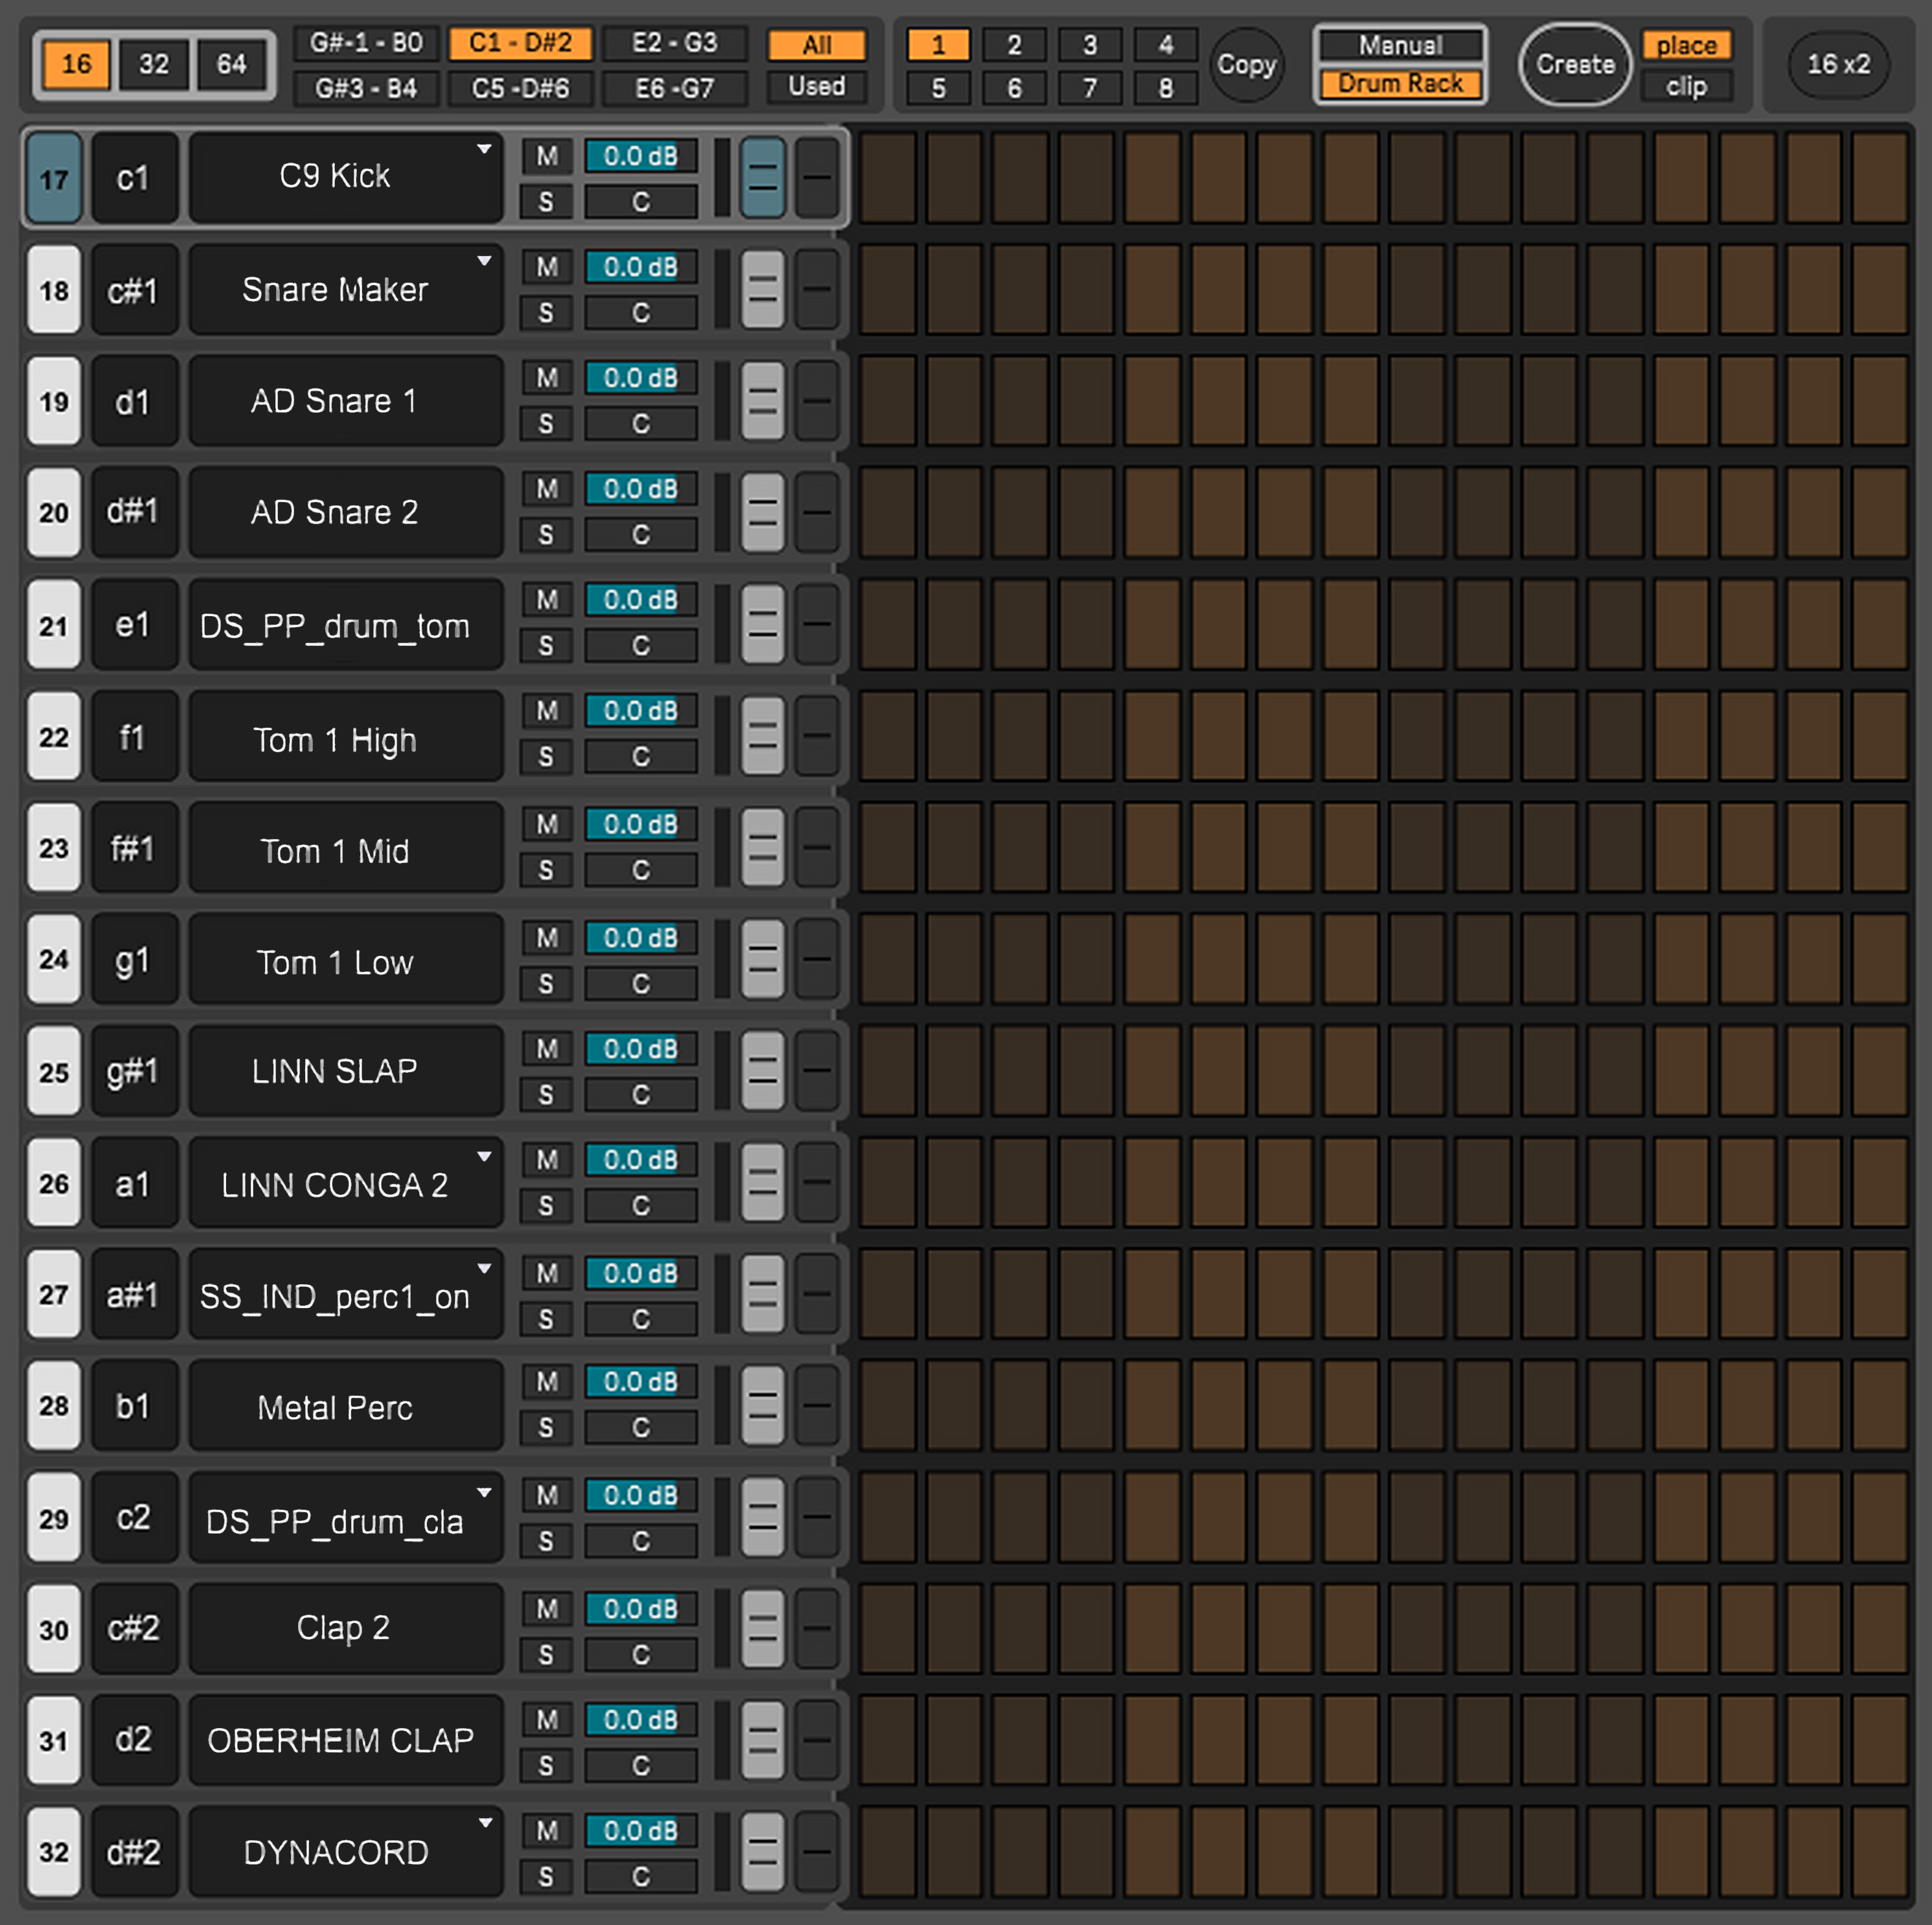
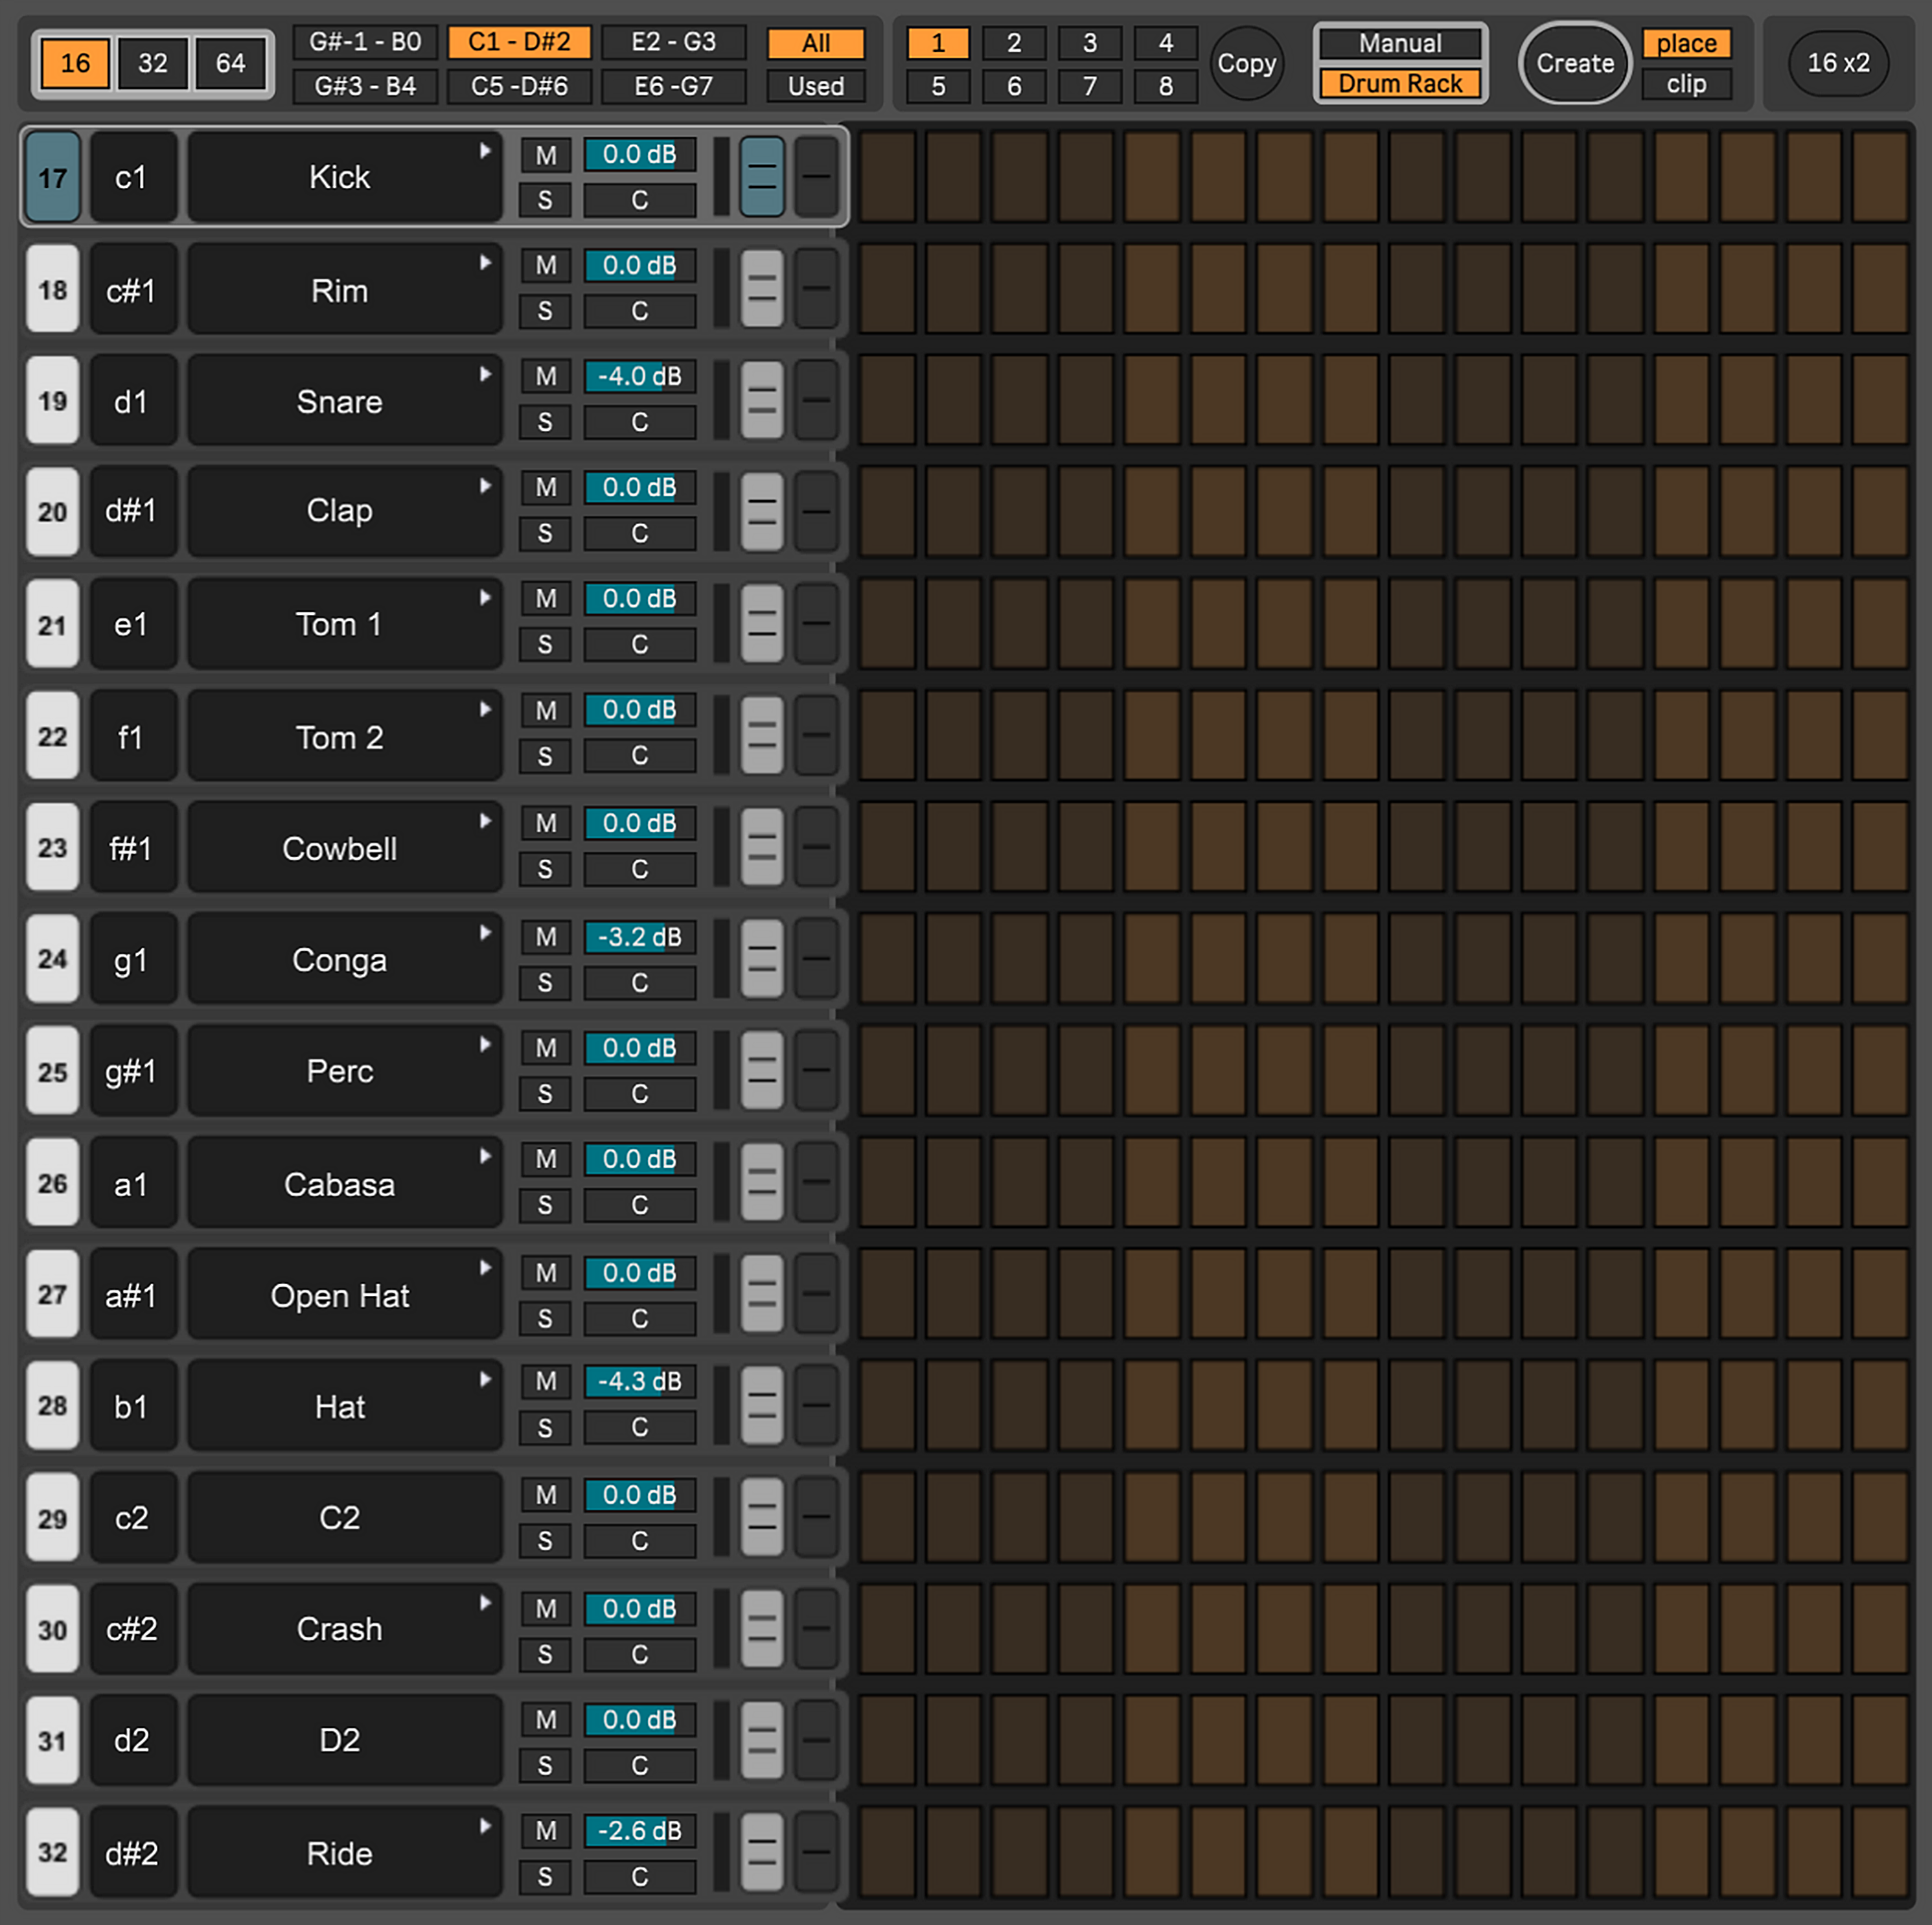
Update video showcase and fix skip button

diff --git a/fseq.html b/fseq.html
@@ -324,7 +324,7 @@
 
                 <a href="about.html" class="text-gray-400 hover:text-white transition duration-150">About me</a>
 
-                <a href="#" class="inline-flex items-center bg-zinc-800 text-white px-6 py-2 rounded-full font-bold uppercase tracking-wider text-sm hover:bg-zinc-700 transition shadow-lg whitespace-nowrap">
+                <a href="https://sharooms.gumroad.com/l/FSEQ" target="_blank" class="inline-flex items-center bg-zinc-800 text-white px-6 py-2 rounded-full font-bold uppercase tracking-wider text-sm hover:bg-zinc-700 transition shadow-lg whitespace-nowrap">
                     <img src="assets/gumroad.svg" alt="Gumroad" class="w-5 h-5 mr-2">
                     MY GUMROAD SHOP
                 </a>
@@ -340,7 +340,7 @@
             <a href="fseq.html" class="block pl-10 pr-6 py-2 text-sm text-gray-400 hover:bg-gray-800 transition">FSEQ</a>
             <a href="lazy-serum.html" class="block pl-10 pr-6 py-2 text-sm text-gray-400 hover:bg-gray-800 transition">Lazy Serum</a>
             <a href="about.html" class="block px-6 py-3 text-gray-300 hover:bg-gray-800 transition border-t border-gray-800">About me</a>
-            <a href="#" class="block px-6 py-4 bg-zinc-800 text-white font-bold uppercase tracking-wider text-sm hover:bg-zinc-700 transition border-t border-zinc-800 flex items-center">
+            <a href="https://sharooms.gumroad.com/l/FSEQ" target="_blank" class="block px-6 py-4 bg-zinc-800 text-white font-bold uppercase tracking-wider text-sm hover:bg-zinc-700 transition border-t border-zinc-800 flex items-center">
                 <img src="assets/gumroad.svg" alt="Gumroad" class="w-5 h-5 mr-3">
                 MY GUMROAD SHOP
             </a>
@@ -357,11 +357,17 @@
                     <p class="text-lg md:text-xl lg:text-2xl text-gray-400 mb-4 md:mb-6 font-light max-w-2xl">
                         Next-Level Drum Sequencing. A powerful, fully integrated step sequencer for Ableton Live, optimized for Drum Racks.
                     </p>
-                    <div class="flex items-center gap-4 md:gap-6">
-                        <span class="text-2xl md:text-4xl font-extrabold text-white tracking-widest">$6.00</span>
-                        <a href="#" class="inline-flex items-center bg-white text-black px-6 py-2 md:px-10 md:py-4 rounded-md font-bold uppercase tracking-wider hover:bg-gray-200 transition shadow-2xl text-sm md:text-base">
-                            <img src="assets/gumroad.svg" alt="Gumroad" class="w-5 h-5 md:w-6 md:h-6 mr-2 md:mr-3">
-                            GET ON GUMROAD
+                    <div class="flex flex-col gap-3 2xl:flex-row 2xl:items-center 2xl:gap-6">
+                        <div class="flex items-center gap-4 md:gap-6">
+                            <span class="text-2xl md:text-4xl font-extrabold text-white tracking-widest">$6.00</span>
+                            <a href="https://sharooms.gumroad.com/l/FSEQ" target="_blank" class="inline-flex items-center bg-white text-black px-6 py-2 md:px-10 md:py-4 rounded-md font-bold uppercase tracking-wider hover:bg-gray-200 transition shadow-2xl text-sm md:text-base whitespace-nowrap">
+                                <img src="assets/gumroad.svg" alt="Gumroad" class="w-5 h-5 md:w-6 md:h-6 mr-2 md:mr-3">
+                                GET ON GUMROAD
+                            </a>
+                        </div>
+                        <a href="assets/FseqManual.pdf" target="_blank" class="hidden 2xl:inline-flex items-center justify-center bg-zinc-800 text-white px-6 py-2 md:px-10 md:py-4 rounded-md font-bold uppercase tracking-wider border border-zinc-700 hover:bg-zinc-700 transition text-sm md:text-base whitespace-nowrap">
+                            <span data-lucide="file-text" class="w-5 h-5 md:w-6 md:h-6 mr-2 md:mr-3 text-gray-400"></span>
+                            VIEW MANUAL
                         </a>
                     </div>
                     <p class="text-gray-500 mt-2 md:mt-4 text-xs md:text-sm">* A purchase also covers all future updates!</p>
@@ -421,6 +427,13 @@
                         <p class="text-[10px] md:text-base text-gray-500 leading-relaxed">Paint notes and velocity curves or use context menus for fast fills.</p>
                     </div>
                 </div>
+                <!-- Mobile only Manual Button -->
+                <div class="mt-12 2xl:hidden flex justify-center">
+                    <a href="assets/FseqManual.pdf" target="_blank" class="w-full md:w-auto inline-flex items-center justify-center bg-zinc-800 text-white px-8 py-4 md:px-12 md:py-5 rounded-md font-bold uppercase tracking-wider border border-zinc-700 hover:bg-zinc-700 transition text-sm md:text-base shadow-xl">
+                        <span data-lucide="file-text" class="w-6 h-6 mr-3 text-gray-400"></span>
+                        VIEW MANUAL
+                    </a>
+                </div>
             </div>
         </section>
         </div>
@@ -460,8 +473,8 @@
                     <div class="scrolly-content" id="scrolly-content">
                         <div id="scrolly-desc-container"></div>
                         <!-- Skip to Showcase -->
-                        <button onclick="document.getElementById('video-showcase').scrollIntoView({ behavior: 'smooth' })" 
-                                class="mt-20 px-10 py-4 border border-white/20 hover:border-white hover:bg-white hover:text-black transition-all duration-500 uppercase text-sm md:text-lg font-black tracking-[0.5em] pointer-events-auto backdrop-blur-sm">
+                        <button onclick="doSkipOverview(this, event)"
+                                class="mt-20 px-10 py-4 border border-white/20 md:hover:border-white md:hover:bg-white md:hover:text-black transition-all duration-500 uppercase text-sm md:text-lg font-black tracking-[0.5em] pointer-events-auto backdrop-blur-sm">
                             SKIP OVERVIEW
                         </button>
                     </div>
@@ -476,7 +489,7 @@
             <div class="container mx-auto px-4 md:px-12 py-12 md:py-24">
                 <div class="grid grid-cols-1 md:grid-cols-2 gap-0 md:gap-x-24 md:gap-y-32">
                     <!-- Video 1: Drum Sequencer -->
-                    <div class="video-page-item h-[100svh] md:h-auto flex flex-col justify-center">
+                    <div class="video-page-item h-[100svh] md:h-auto flex flex-col justify-center md:justify-start">
                         <div class="relative aspect-[4/3] rounded-xl overflow-hidden bg-zinc-900 shadow-2xl mb-8 group border border-white/10">
                             <video src="assets/build.mp4" class="w-full h-full object-cover" autoplay muted loop playsinline></video>
                             <div class="absolute inset-0 bg-gradient-to-t from-black/60 to-transparent opacity-0 group-hover:opacity-100 transition-opacity duration-500"></div>
@@ -494,7 +507,7 @@
                     </div>
 
                     <!-- Video 2: Select -->
-                    <div class="video-page-item h-[100svh] md:h-auto flex flex-col justify-center">
+                    <div class="video-page-item h-[100svh] md:h-auto flex flex-col justify-center md:justify-start">
                         <div class="relative aspect-[4/3] rounded-xl overflow-hidden bg-zinc-900 shadow-2xl mb-8 group border border-white/10">
                             <video src="assets/select_tool.mp4" class="w-full h-full object-cover" autoplay muted loop playsinline></video>
                             <div class="absolute inset-0 bg-gradient-to-t from-black/60 to-transparent opacity-0 group-hover:opacity-100 transition-opacity duration-500"></div>
@@ -512,7 +525,7 @@
                     </div>
 
                     <!-- Video 3: Velocity -->
-                    <div class="video-page-item h-[100svh] md:h-auto flex flex-col justify-center">
+                    <div class="video-page-item h-[100svh] md:h-auto flex flex-col justify-center md:justify-start">
                         <div class="relative aspect-[4/3] rounded-xl overflow-hidden bg-zinc-900 shadow-2xl mb-8 group border border-white/10">
                             <video src="assets/velocity.mp4" class="w-full h-full object-cover" autoplay muted loop playsinline></video>
                             <div class="absolute inset-0 bg-gradient-to-t from-black/60 to-transparent opacity-0 group-hover:opacity-100 transition-opacity duration-500"></div>
@@ -530,7 +543,7 @@
                     </div>
 
                     <!-- Video 4: Hotkeys -->
-                    <div class="video-page-item h-[100svh] md:h-auto flex flex-col justify-center">
+                    <div class="video-page-item h-[100svh] md:h-auto flex flex-col justify-center md:justify-start">
                         <div class="relative aspect-[4/3] rounded-xl overflow-hidden bg-zinc-900 shadow-2xl mb-8 group border border-white/10">
                             <video src="assets/hotkeys.mp4" class="w-full h-full object-cover" autoplay muted loop playsinline></video>
                             <div class="absolute inset-0 bg-gradient-to-t from-black/60 to-transparent opacity-0 group-hover:opacity-100 transition-opacity duration-500"></div>
@@ -548,7 +561,7 @@
                     </div>
 
                     <!-- Video 5: API Integration -->
-                    <div class="video-page-item h-[100svh] md:h-auto flex flex-col justify-center">
+                    <div class="video-page-item h-[100svh] md:h-auto flex flex-col justify-center md:justify-start">
                         <div class="relative aspect-[4/3] rounded-xl overflow-hidden bg-zinc-900 shadow-2xl mb-8 group border border-white/10">
                             <video src="assets/api.mp4" class="w-full h-full object-cover" autoplay muted loop playsinline></video>
                             <div class="absolute inset-0 bg-gradient-to-t from-black/60 to-transparent opacity-0 group-hover:opacity-100 transition-opacity duration-500"></div>
@@ -566,7 +579,7 @@
                     </div>
 
                     <!-- Video 6: Sample Swap -->
-                    <div class="video-page-item h-[100svh] md:h-auto flex flex-col justify-center">
+                    <div class="video-page-item h-[100svh] md:h-auto flex flex-col justify-center md:justify-start">
                         <div class="relative aspect-[4/3] rounded-xl overflow-hidden bg-zinc-900 shadow-2xl mb-8 group border border-white/10">
                             <video src="assets/sample_tool.mp4" class="w-full h-full object-cover" autoplay muted loop playsinline></video>
                             <div class="absolute inset-0 bg-gradient-to-t from-black/60 to-transparent opacity-0 group-hover:opacity-100 transition-opacity duration-500"></div>
@@ -584,7 +597,7 @@
                     </div>
 
                     <!-- Video 7: Preset Management -->
-                    <div class="video-page-item h-[100svh] md:h-auto flex flex-col justify-center">
+                    <div class="video-page-item h-[100svh] md:h-auto flex flex-col justify-center md:justify-start">
                         <div class="relative aspect-[4/3] rounded-xl overflow-hidden bg-zinc-900 shadow-2xl mb-8 group border border-white/10">
                             <video src="assets/Presets.mp4" class="w-full h-full object-cover" autoplay muted loop playsinline></video>
                             <div class="absolute inset-0 bg-gradient-to-t from-black/60 to-transparent opacity-0 group-hover:opacity-100 transition-opacity duration-500"></div>
@@ -602,7 +615,7 @@
                     </div>
 
                     <!-- Video 8: Create -->
-                    <div class="video-page-item h-[100svh] md:h-auto flex flex-col justify-center">
+                    <div class="video-page-item h-[100svh] md:h-auto flex flex-col justify-center md:justify-start">
                         <div class="relative aspect-[4/3] rounded-xl overflow-hidden bg-zinc-900 shadow-2xl mb-8 group border border-white/10">
                             <video src="assets/create.mp4" class="w-full h-full object-cover" autoplay muted loop playsinline></video>
                             <div class="absolute inset-0 bg-gradient-to-t from-black/60 to-transparent opacity-0 group-hover:opacity-100 transition-opacity duration-500"></div>
@@ -620,7 +633,7 @@
                     </div>
 
                     <!-- Video 9: Manual Mode -->
-                    <div class="video-page-item h-[100svh] md:h-auto flex flex-col justify-center">
+                    <div class="video-page-item h-[100svh] md:h-auto flex flex-col justify-center md:justify-start">
                         <div class="relative aspect-[4/3] rounded-xl overflow-hidden bg-zinc-900 shadow-2xl mb-8 group border border-white/10">
                             <video src="assets/manual_mode.mp4" class="w-full h-full object-cover" autoplay muted loop playsinline></video>
                             <div class="absolute inset-0 bg-gradient-to-t from-black/60 to-transparent opacity-0 group-hover:opacity-100 transition-opacity duration-500"></div>
@@ -636,10 +649,28 @@
                             </p>
                         </div>
                     </div>
+
+                    <!-- Video 10: Ableton Themes -->
+                    <div class="video-page-item h-[100svh] md:h-auto flex flex-col justify-center md:justify-start">
+                        <div class="relative aspect-[4/3] rounded-xl overflow-hidden bg-zinc-900 shadow-2xl mb-8 group border border-white/10">
+                            <video src="assets/schema.mp4" class="w-full h-full object-cover" autoplay muted loop playsinline></video>
+                            <div class="absolute inset-0 bg-gradient-to-t from-black/60 to-transparent opacity-0 group-hover:opacity-100 transition-opacity duration-500"></div>
+                        </div>
+                        <div class="space-y-4">
+                            <div class="flex items-center gap-3">
+                                <span class="w-8 h-[2px] bg-white/20"></span>
+                                <span class="text-xs font-bold tracking-[0.3em] text-gray-500 uppercase">Style</span>
+                            </div>
+                            <h3 class="text-3xl md:text-5xl font-black text-white tracking-tighter uppercase leading-none">Ableton Themes</h3>
+                            <p class="text-gray-400 text-lg md:text-xl leading-relaxed max-w-xl">
+                                FSEQ changes with the Ableton color theme. This ensures that the interface always fits perfectly into your workspace, regardless of whether you prefer a dark or light theme.
+                            </p>
+                        </div>
+                    </div>
                 </div>
             </div>
         <!-- System Requirements Section -->
-        <section id="system-requirements" class="video-page-item relative bg-black border-t border-white/5 h-[100svh] md:h-auto flex flex-col justify-center overflow-hidden">
+        <section id="system-requirements" class="video-page-item relative bg-black border-t border-white/5 h-[100svh] md:h-auto flex flex-col justify-center md:justify-start overflow-hidden">
             <div class="container mx-auto px-4 md:px-12 relative z-10">
                 <div class="max-w-4xl mx-auto">
                     <div class="flex items-center gap-4 mb-8 opacity-40">
@@ -699,6 +730,23 @@
 
     <script>
         lucide.createIcons();
+        
+        function doSkipOverview(btn, event) {
+            if (event) event.preventDefault();
+            btn.classList.add('bg-white', 'text-black', 'border-white');
+            const target = document.getElementById('video-showcase');
+            if (target) {
+                const targetY = window.scrollY + target.getBoundingClientRect().top;
+                if (window.innerWidth <= 768 && typeof customScrollTo === 'function') {
+                    customScrollTo(targetY, 600);
+                } else {
+                    window.scrollTo({ top: targetY, behavior: 'smooth' });
+                }
+            }
+            setTimeout(() => {
+                btn.classList.remove('bg-white', 'text-black', 'border-white');
+            }, 800);
+        }
         const mobileMenu = document.getElementById('mobile-menu');
         const mobileMenuBtn = document.getElementById('mobile-menu-btn');
         mobileMenuBtn.addEventListener('click', () => {
@@ -850,7 +898,6 @@
             if (lastStepIndex !== stepIndex) {
                 lastStepIndex = stepIndex;
                 scrollyContent.style.opacity = '0';
-                scrollyContent.style.pointerEvents = 'none';
                 setTimeout(() => {
                     if (currentStep.hl.opacity > 0) {
                         const titleHtml = currentStep.title ? `<h3>${currentStep.title}</h3>` : '';
@@ -864,7 +911,6 @@
                         scrollyDescContainer.innerHTML = rawDesc;
                         scrollyContent.style.top = currentStep.contentTop || "32%";
                         scrollyContent.style.opacity = '1';
-                        scrollyContent.style.pointerEvents = 'auto';
                     } else {
                         scrollyDescContainer.innerHTML = '';
                     }

diff --git a/legal.html b/legal.html
@@ -145,8 +145,7 @@
 
                 <a href="about.html" class="text-gray-400 hover:text-white transition duration-150">About me</a>
 
-                <a href="#"
-                    class="inline-flex items-center bg-zinc-800 text-white px-6 py-2 rounded-full font-bold uppercase tracking-wider text-sm hover:bg-zinc-700 transition shadow-lg whitespace-nowrap">
+                <a href="https://sharooms.gumroad.com/l/FSEQ" target="_blank" class="inline-flex items-center bg-zinc-800 text-white px-6 py-2 rounded-full font-bold uppercase tracking-wider text-sm hover:bg-zinc-700 transition shadow-lg whitespace-nowrap">
                     <img src="assets/gumroad.svg" alt="Gumroad" class="w-5 h-5 mr-2">
                     MY GUMROAD SHOP
                 </a>
@@ -167,7 +166,7 @@
                 class="block pl-10 pr-6 py-2 text-sm text-gray-400 hover:bg-gray-800 transition">Lazy Serum</a>
             <a href="about.html"
                 class="block px-6 py-3 text-gray-300 hover:bg-gray-800 transition border-t border-gray-800">About me</a>
-            <a href="#" class="block px-6 py-4 bg-zinc-800 text-white font-bold uppercase tracking-wider text-sm hover:bg-zinc-700 transition border-t border-zinc-800 flex items-center">
+            <a href="https://sharooms.gumroad.com/l/FSEQ" target="_blank" class="block px-6 py-4 bg-zinc-800 text-white font-bold uppercase tracking-wider text-sm hover:bg-zinc-700 transition border-t border-zinc-800 flex items-center">
                 <img src="assets/gumroad.svg" alt="Gumroad" class="w-5 h-5 mr-3">
                 MY GUMROAD SHOP
             </a>

diff --git a/privacy.html b/privacy.html
@@ -145,8 +145,7 @@
 
                 <a href="about.html" class="text-gray-400 hover:text-white transition duration-150">About me</a>
 
-                <a href="#"
-                    class="inline-flex items-center bg-zinc-800 text-white px-6 py-2 rounded-full font-bold uppercase tracking-wider text-sm hover:bg-zinc-700 transition shadow-lg whitespace-nowrap">
+                <a href="https://sharooms.gumroad.com/l/FSEQ" target="_blank" class="inline-flex items-center bg-zinc-800 text-white px-6 py-2 rounded-full font-bold uppercase tracking-wider text-sm hover:bg-zinc-700 transition shadow-lg whitespace-nowrap">
                     <img src="assets/gumroad.svg" alt="Gumroad" class="w-5 h-5 mr-2">
                     MY GUMROAD SHOP
                 </a>
@@ -167,7 +166,7 @@
                 class="block pl-10 pr-6 py-2 text-sm text-gray-400 hover:bg-gray-800 transition">Lazy Serum</a>
             <a href="about.html"
                 class="block px-6 py-3 text-gray-300 hover:bg-gray-800 transition border-t border-gray-800">About me</a>
-            <a href="#" class="block px-6 py-4 bg-zinc-800 text-white font-bold uppercase tracking-wider text-sm hover:bg-zinc-700 transition border-t border-zinc-800 flex items-center">
+            <a href="https://sharooms.gumroad.com/l/FSEQ" target="_blank" class="block px-6 py-4 bg-zinc-800 text-white font-bold uppercase tracking-wider text-sm hover:bg-zinc-700 transition border-t border-zinc-800 flex items-center">
                 <img src="assets/gumroad.svg" alt="Gumroad" class="w-5 h-5 mr-3">
                 MY GUMROAD SHOP
             </a>

diff --git a/about.html b/about.html
@@ -146,7 +146,7 @@
 
                 <a href="about.html" class="text-white transition duration-150">About me</a>
 
-                <a href="#"
+                <a href="https://sharooms.gumroad.com/l/FSEQ" target="_blank"
                     class="inline-flex items-center bg-zinc-800 text-white px-6 py-2 rounded-full font-bold uppercase tracking-wider text-sm hover:bg-zinc-700 transition shadow-lg whitespace-nowrap">
                     <img src="assets/gumroad.svg" alt="Gumroad" class="w-5 h-5 mr-2">
                     MY GUMROAD SHOP
@@ -168,7 +168,7 @@
                 class="block pl-10 pr-6 py-2 text-sm text-gray-400 hover:bg-gray-800 transition">Lazy Serum</a>
             <a href="about.html"
                 class="block px-6 py-3 text-gray-300 hover:bg-gray-800 transition border-t border-gray-800">About me</a>
-            <a href="#" class="block px-6 py-4 bg-zinc-800 text-white font-bold uppercase tracking-wider text-sm hover:bg-zinc-700 transition border-t border-zinc-800 flex items-center">
+            <a href="https://sharooms.gumroad.com/l/FSEQ" target="_blank" class="block px-6 py-4 bg-zinc-800 text-white font-bold uppercase tracking-wider text-sm hover:bg-zinc-700 transition border-t border-zinc-800 flex items-center">
                 <img src="assets/gumroad.svg" alt="Gumroad" class="w-5 h-5 mr-3">
                 MY GUMROAD SHOP
             </a>

diff --git a/index.html b/index.html
@@ -177,7 +177,7 @@
 
                 <a href="about.html" class="text-gray-400 hover:text-white transition duration-150">About me</a>
 
-                <a href="#"
+                <a href="https://sharooms.gumroad.com/l/FSEQ" target="_blank"
                     class="inline-flex items-center bg-zinc-800 text-white px-6 py-2 rounded-full font-bold uppercase tracking-wider text-sm hover:bg-zinc-700 transition shadow-lg whitespace-nowrap">
                     <img src="assets/gumroad.svg" alt="Gumroad" class="w-5 h-5 mr-2">
                     MY GUMROAD SHOP
@@ -199,7 +199,7 @@
                 class="block pl-10 pr-6 py-2 text-sm text-gray-400 hover:bg-gray-800 transition">Lazy Serum</a>
             <a href="about.html"
                 class="block px-6 py-3 text-gray-300 hover:bg-gray-800 transition border-t border-gray-800">About me</a>
-            <a href="#" class="block px-6 py-4 bg-zinc-800 text-white font-bold uppercase tracking-wider text-sm hover:bg-zinc-700 transition border-t border-zinc-800 flex items-center">
+            <a href="https://sharooms.gumroad.com/l/FSEQ" target="_blank" class="block px-6 py-4 bg-zinc-800 text-white font-bold uppercase tracking-wider text-sm hover:bg-zinc-700 transition border-t border-zinc-800 flex items-center">
                 <img src="assets/gumroad.svg" alt="Gumroad" class="w-5 h-5 mr-3">
                 MY GUMROAD SHOP
             </a>

diff --git a/lazy-serum.html b/lazy-serum.html
@@ -132,7 +132,7 @@
 
                 <a href="about.html" class="text-gray-400 hover:text-white transition duration-150">About me</a>
 
-                <a href="#" class="inline-flex items-center bg-slate-800 text-white px-6 py-2 rounded-full font-bold uppercase tracking-wider text-sm hover:bg-slate-700 transition shadow-lg whitespace-nowrap">
+                <a href="https://sharooms.gumroad.com/l/FSEQ" target="_blank" class="inline-flex items-center bg-slate-800 text-white px-6 py-2 rounded-full font-bold uppercase tracking-wider text-sm hover:bg-slate-700 transition shadow-lg whitespace-nowrap">
                     <img src="assets/gumroad.svg" alt="Gumroad" class="w-5 h-5 mr-2">
                     MY GUMROAD SHOP
                 </a>
@@ -148,7 +148,7 @@
             <a href="fseq.html" class="block pl-10 pr-6 py-2 text-sm text-gray-400 hover:bg-gray-800 transition">FSEQ</a>
             <a href="lazy-serum.html" class="block pl-10 pr-6 py-2 text-sm text-gray-400 hover:bg-gray-800 transition">Lazy Serum</a>
             <a href="about.html" class="block px-6 py-3 text-gray-300 hover:bg-gray-800 transition border-t border-gray-800">About me</a>
-            <a href="#" class="block px-6 py-4 bg-slate-800 text-white font-bold uppercase tracking-wider text-sm hover:bg-slate-700 transition border-t border-gray-800 flex items-center">
+            <a href="https://sharooms.gumroad.com/l/FSEQ" target="_blank" class="block px-6 py-4 bg-slate-800 text-white font-bold uppercase tracking-wider text-sm hover:bg-slate-700 transition border-t border-gray-800 flex items-center">
                 <img src="assets/gumroad.svg" alt="Gumroad" class="w-5 h-5 mr-3">
                 MY GUMROAD SHOP
             </a>

diff --git a/scratch/check_divs.py b/scratch/check_divs.py
@@ -1,0 +1,22 @@
+
+with open(r'c:\Users\feeld\OneDrive\Desktop\homepage\homepage\fseq.html', 'r', encoding='utf-8') as f:
+    content = f.read()
+
+showcase_start = content.find('<section id="video-showcase"')
+showcase_end = content.find('<section id="system-requirements"')
+showcase_content = content[showcase_start:showcase_end]
+
+open_divs = showcase_content.count('<div')
+close_divs = showcase_content.count('</div>')
+
+print(f"Open divs: {open_divs}")
+print(f"Close divs: {close_divs}")
+
+# Check individual video items
+items = showcase_content.split('video-page-item')
+print(f"Number of video items: {len(items) - 1}")
+
+for i, item in enumerate(items[1:], 1):
+    o = item.count('<div')
+    c = item.count('</div>')
+    print(f"Item {i}: Open={o}, Close={c}")